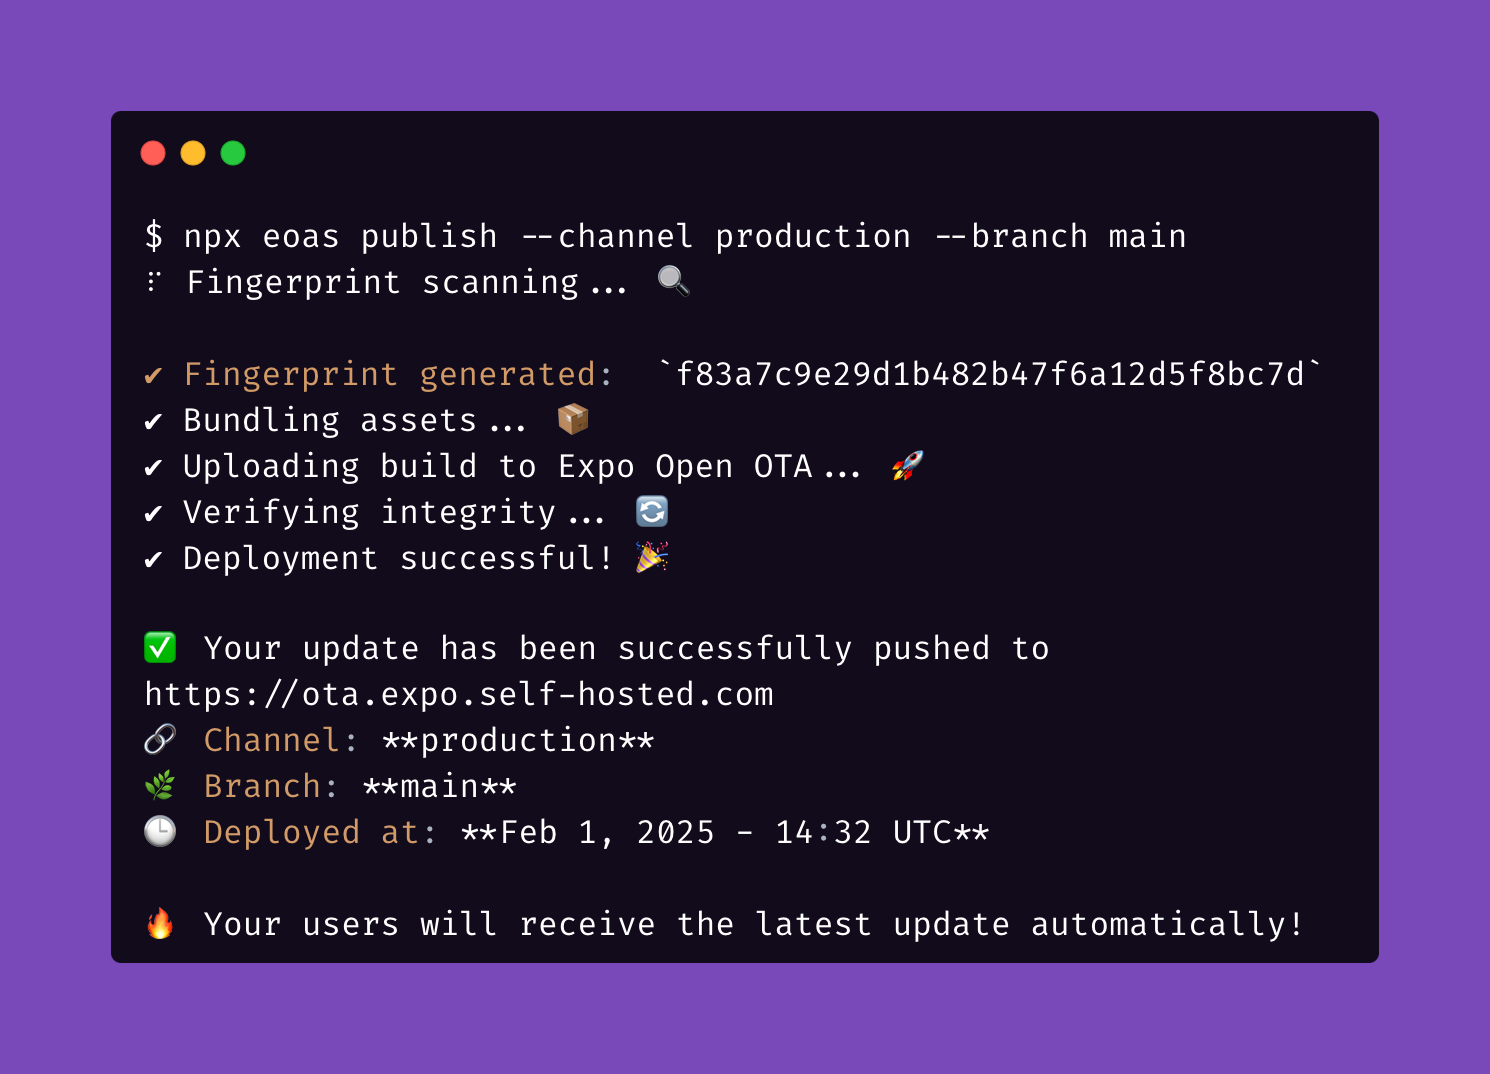
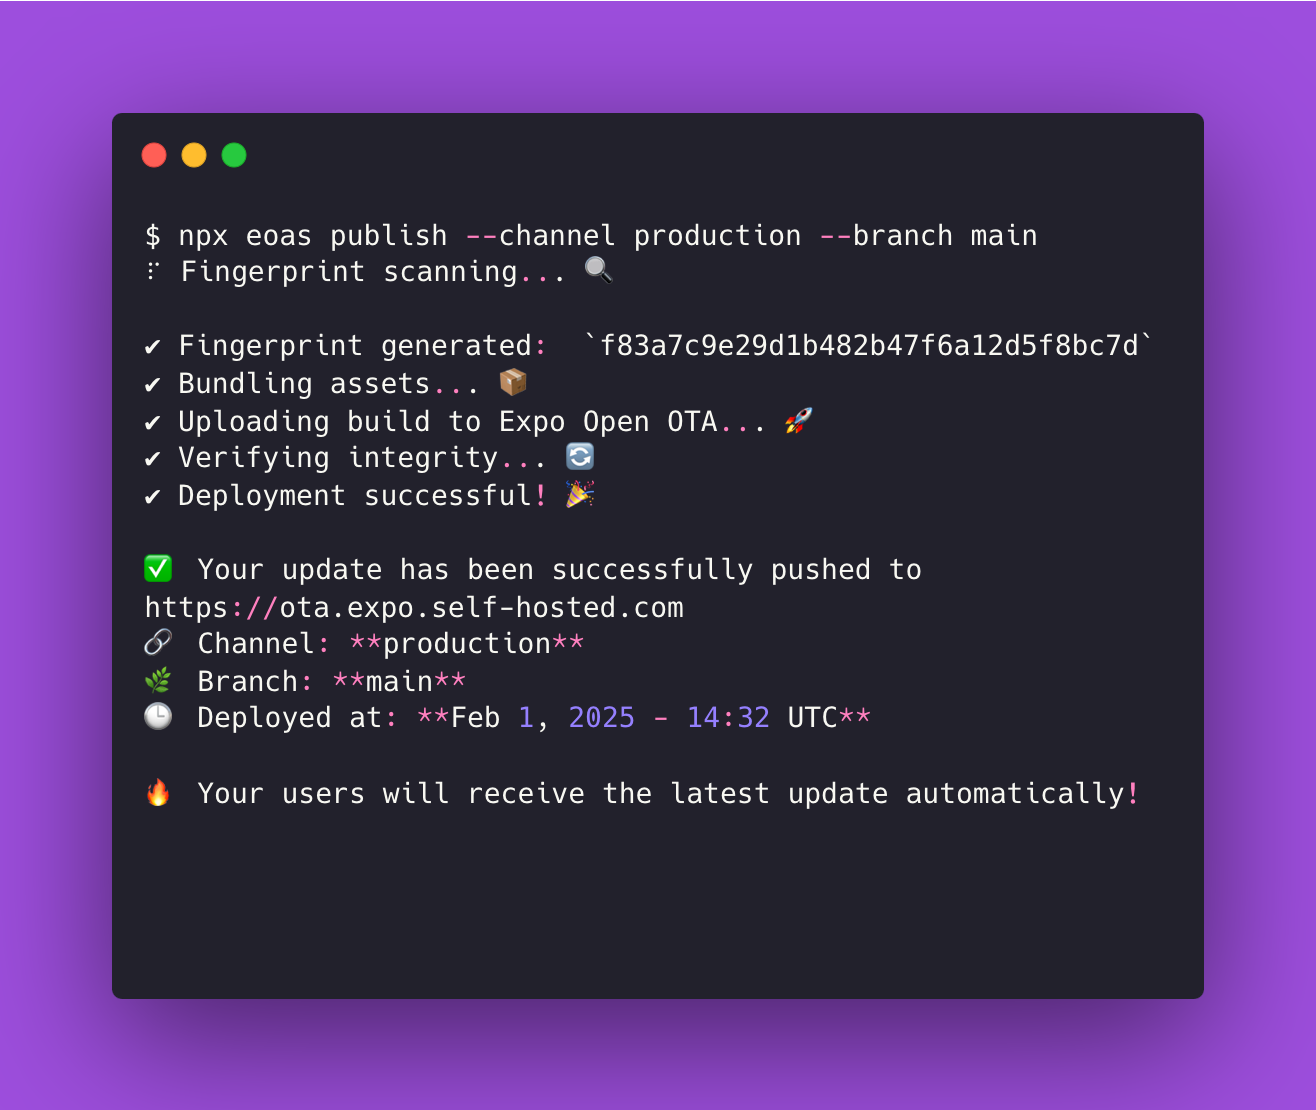
feat: update docs

diff --git a/docs/src/components/HomepageFeatures/index.tsx b/docs/src/components/HomepageFeatures/index.tsx
@@ -9,31 +9,33 @@ type FeatureItem = {
 };
 
 const FeatureList: FeatureItem[] = [
-  {
-    title: 'Modular and Flexible',
-    description: (
-      <>
-        Expo Open OTA is built with a modular architecture, allowing you to tailor it to your needs. Host updates on AWS S3 or manage key pair with AWS Secrets Manager, or even host them locally. Every component is designed to be optional, giving you the freedom to adapt the solution to your specific infrastructure.
-      </>
-    ),
-  },
-  {
-    title: 'Runs on Your Cloud',
-    description: (
-        <>
-          Take full control of your infrastructure—Expo Open OTA runs entirely on your cloud. Seamlessly integrate with AWS today, leveraging Secrets Manager, S3, and CloudFront for secure and scalable update distribution. Designed for flexibility, our solution is built to support more cloud providers soon, ensuring you stay in control of your deployment strategy.
-        </>
-    ),
-  },
-  {
-    title: 'Streamlined Adoption with EOAS',
-    description: (
-      <>
-        We developed the EOAS (Expo Open Application Services) NPM package to streamline and automate workflows in CI or local environments. This tool simplifies client-side updates and enables secure publishing through the Expo Open OTA server, reducing friction and accelerating implementation.
-      </>
-    ),
-  },
+    {
+        title: '⚙ Ready for production in 10 minutes',
+        description: (
+            <>
+                No database, no complex setup—Expo Open OTA is designed for seamless production use. It fully leverages Expo’s configuration, handling <strong>release channels</strong>, <strong>branches</strong>, and <strong>runtime version fingerprints</strong> out of the box. Just connect your cloud storage (S3) and you're ready to go!
+            </>
+        ),
+    },
+    {
+        title: '🚀 EOAS: One Command to Publish & Configure',
+        description: (
+            <>
+                Say goodbye to manual setup! Our <code>eoas</code> NPM package automates everything—run <code>npx eoas init</code> to configure your project, and <code>npx eoas publish</code> to push updates effortlessly from your CI/CD pipeline. No extra scripts, no hassle.
+            </>
+        ),
+    },
+    {
+        title: '⚡ CDN Delivery',
+        description: (
+            <>
+                Your assets, delivered at lightning speed. Expo Open OTA serves static assets through a CDN for maximum performance. Currently supporting AWS CloudFront, with upcoming support for Cloudflare and more—so your users get updates instantly, wherever they are.
+            </>
+        ),
+    },
+
 ];
+
 
 function Feature({title, description}: FeatureItem) {
   return (

diff --git a/docs/src/pages/index.tsx b/docs/src/pages/index.tsx
@@ -12,18 +12,19 @@ function HomepageHeader() {
   const {siteConfig} = useDocusaurusContext();
   return (
     <header className={clsx('hero hero--primary', styles.heroBanner)}>
-      <div className="container">
-        <Heading as="h1" className="hero__title">
-          {siteConfig.title}
-        </Heading>
-        <p className="hero__subtitle">{siteConfig.tagline}</p>
-        <div className={styles.buttons}>
-          <Link
-            className="button button--secondary button--lg"
-            to="/docs/introduction">
-            Get started
-          </Link>
-        </div>
+        <div className={styles.heroTopContainer}>
+            <div className={styles.heroTextContainer}>
+                <Heading as="h1" className={`hero__title ${styles.heroTitle}`}>
+                    {siteConfig.title}
+                </Heading>
+                <p className={`hero__subtitle ${styles.heroSubtitle}`}>{siteConfig.tagline}</p>
+                <div className={styles.buttons}>
+                <Link className="button button--secondary button--lg" to="/docs/introduction">
+                    Get started
+                </Link>
+            </div>
+          </div>
+          <img src="img/social_card.png" alt="Expo Open OTA" className={styles.imgHeader} />
       </div>
     </header>
   );

diff --git a/docs/src/pages/index.module.css b/docs/src/pages/index.module.css
@@ -10,14 +10,70 @@
   overflow: hidden;
 }
 
-@media screen and (max-width: 996px) {
-  .heroBanner {
-    padding: 2rem;
-  }
+.docBtn {
+  background-color: var(--ifm-color-primary-darkest);
 }
 
 .buttons {
   display: flex;
   align-items: center;
-  justify-content: center;
+  gap: 20px;
+}
+
+.heroTopContainer {
+  display: flex;
+  flex-direction: row;
+}
+
+
+.heroTextContainer {
+  display: flex;
+  flex-direction: column;
+  margin-top: 5rem;
+  margin-left: 2rem;
+  margin-right: 2rem;
+}
+
+.imgHeader {
+  width: 700px;
+  height: auto;
+  max-width: 50%;
+}
+
+.heroTitle {
+  text-align: left !important;
+}
+
+.heroSubtitle {
+  text-align: left !important;
+}
+
+
+@media screen and (max-width: 996px) {
+  .heroTitle {
+    text-align: center !important;
+  }
+  .heroSubtitle {
+      text-align: center !important;
+  }
+  .heroTopContainer {
+    display: flex;
+    flex-direction: column;
+    justify-content: center;
+    align-items: center;
+  }
+  .imgHeader {
+    width: 100%;
+    height: auto;
+    max-width: 500px;
+  }
+  .heroTextContainer {
+    margin: 0rem 2rem;
+  }
+}
+
+@media screen and (max-width: 300px) {
+  .imgHeader {
+    display: none !important;
+  }
 }
